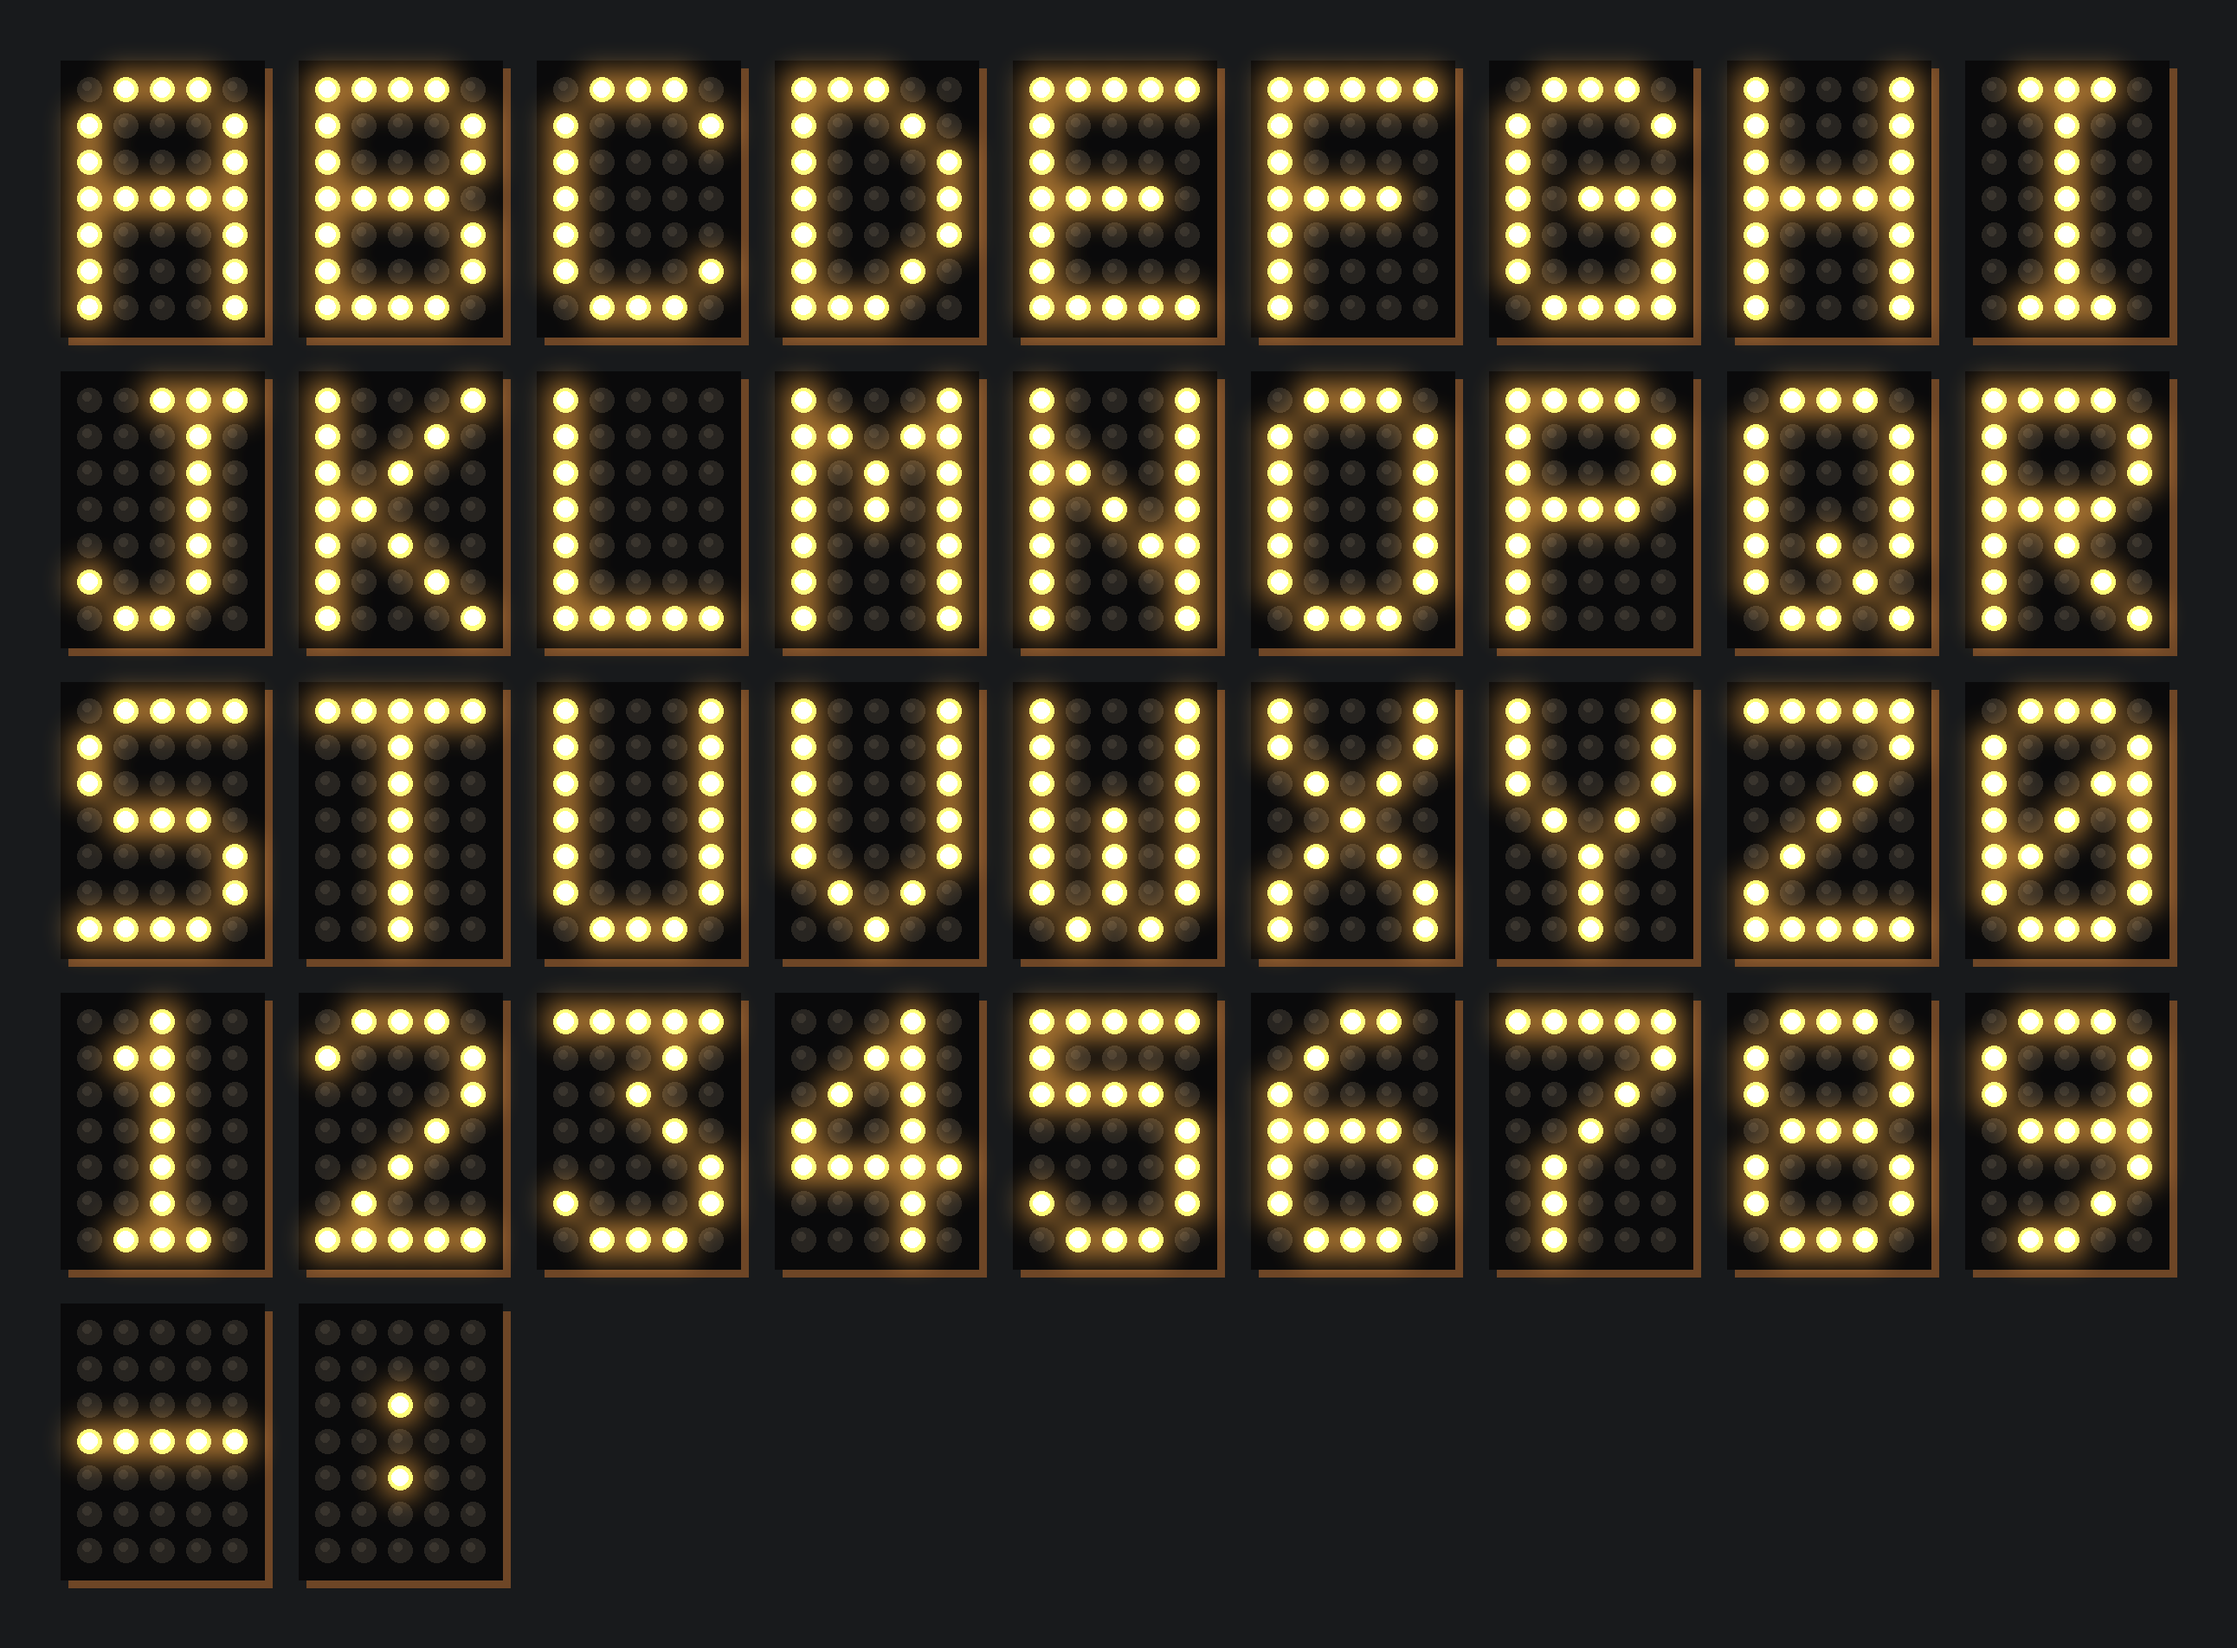
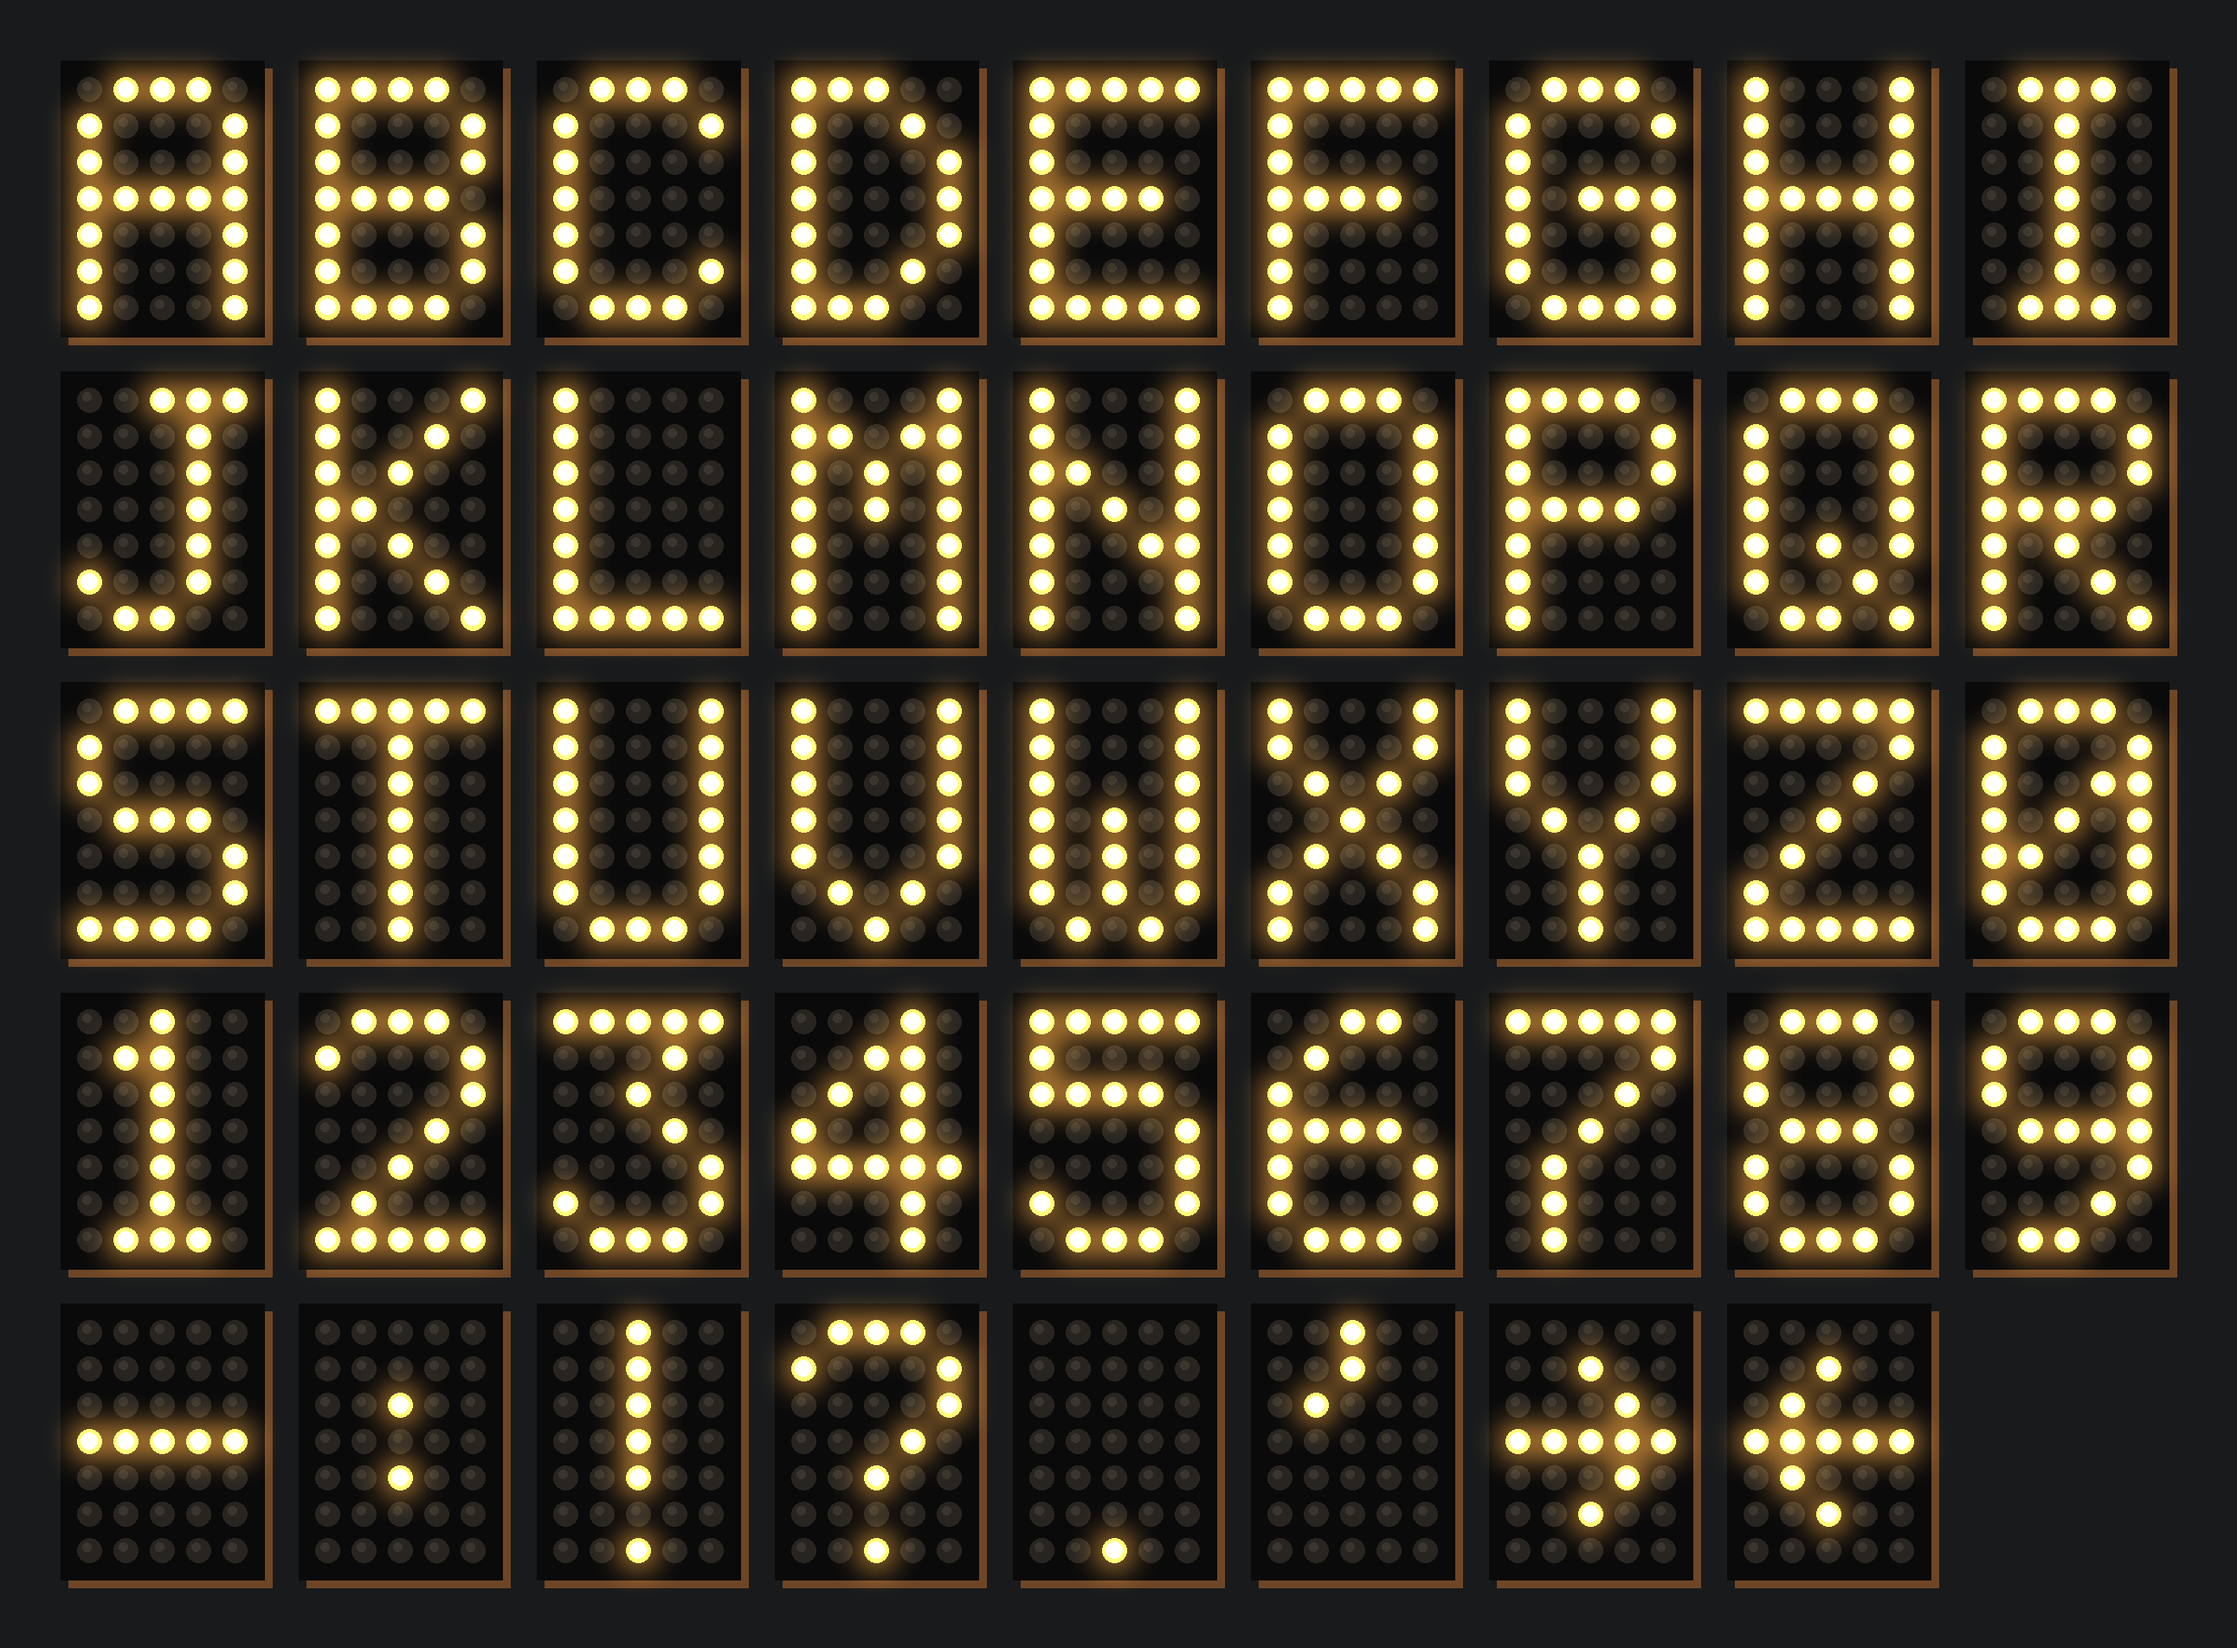
Add ! ? . ' and left/right arrows to the font
- font5x7.py: six new glyphs, plus glyphs() which turns -> and <- into
  arrows and drops characters the font lacks
- docs/font.png: regenerated with all 44 characters
- README and web/marquee_matrix.html: Spell accepts the new characters

Changed region(s): [[0.2477, 0.7747, 0.6192, 0.9916], [0.6502, 0.8057, 0.8669, 0.9916], [0.5882, 0.9606, 0.6502, 0.9916]]

diff --git a/web/marquee_matrix.html b/web/marquee_matrix.html
@@ -211,14 +211,14 @@ code { font-family: var(--font-mono); font-size: 0.9em; overflow-wrap: anywhere;
         <div class="stat"><span class="v" id="s-lit">18</span><span class="k">bulbs lit</span></div>
         <div class="stat"><span class="v" id="s-load">18 W</span><span class="k">at 1 W per bulb</span></div>
       </div>
-      <p class="muted" style="font-size:15px">On/off only. Each bulb has its own solid-state relay channel, so any pattern is possible. Spell takes letters, digits, dash and colon; Count runs 9 down to 0. Click a bulb to toggle it by hand.</p>
+      <p class="muted" style="font-size:15px">On/off only. Each bulb has its own solid-state relay channel, so any pattern is possible. Spell takes letters, digits and - : ! ? . ' (type -> or &lt;- for an arrow); Count runs 9 down to 0. Click a bulb to toggle it by hand.</p>
     </div>
   </div>
 
   <section>
     <div class="head">
       <h2>The font</h2>
-      <p class="muted">The classic 5 × 7 dot-matrix letters and digits, plus a dash and a colon for times and scores like 12:30 or 3-1. Zero has a slash so it reads differently from O. Bulb number = row × 5 + column, counting from 0 at the top left. Letters and digits light between 10 bulbs (1) and 20 (B). Click one to hold it on the sign.</p>
+      <p class="muted">The classic 5 × 7 dot-matrix letters and digits, plus a dash and colon for times and scores like 12:30 or 3-1, punctuation (! ? . ') and two arrows. Zero has a slash so it reads differently from O. Bulb number = row × 5 + column, counting from 0 at the top left. Letters and digits light between 10 bulbs (1) and 20 (B). Click one to hold it on the sign.</p>
     </div>
     <h3>Letters</h3>
     <div class="font-grid" id="font-letters"></div>
@@ -313,7 +313,7 @@ code { font-family: var(--font-mono); font-size: 0.9em; overflow-wrap: anywhere;
   <section>
     <div class="head"><h2>Files</h2><p class="muted">In the MarqueeMatrix project folder.</p></div>
     <div class="files">
-      <div><code>font5x7.py</code><span class="muted">The glyphs used on this page: A–Z, 0–9, dash and colon</span></div>
+      <div><code>font5x7.py</code><span class="muted">The glyphs used on this page: A–Z, 0–9, symbols and arrows</span></div>
       <div><code>cad/marquee_matrix.py</code><span class="muted">Parametric build123d model; all dimensions at the top</span></div>
       <div><code>cad/export.py</code><span class="muted">Writes the STEP file and laser cut files</span></div>
       <div><code>out/marquee_matrix.step</code><span class="muted">Full assembly</span></div>
@@ -323,7 +323,7 @@ code { font-family: var(--font-mono); font-size: 0.9em; overflow-wrap: anywhere;
 </div>
 
 <script>
-const FONT = {"A":[".###.","#...#","#...#","#####","#...#","#...#","#...#"],"B":["####.","#...#","#...#","####.","#...#","#...#","####."],"C":[".###.","#...#","#....","#....","#....","#...#",".###."],"D":["###..","#..#.","#...#","#...#","#...#","#..#.","###.."],"E":["#####","#....","#....","####.","#....","#....","#####"],"F":["#####","#....","#....","####.","#....","#....","#...."],"G":[".###.","#...#","#....","#.###","#...#","#...#",".####"],"H":["#...#","#...#","#...#","#####","#...#","#...#","#...#"],"I":[".###.","..#..","..#..","..#..","..#..","..#..",".###."],"J":["..###","...#.","...#.","...#.","...#.","#..#.",".##.."],"K":["#...#","#..#.","#.#..","##...","#.#..","#..#.","#...#"],"L":["#....","#....","#....","#....","#....","#....","#####"],"M":["#...#","##.##","#.#.#","#.#.#","#...#","#...#","#...#"],"N":["#...#","#...#","##..#","#.#.#","#..##","#...#","#...#"],"O":[".###.","#...#","#...#","#...#","#...#","#...#",".###."],"P":["####.","#...#","#...#","####.","#....","#....","#...."],"Q":[".###.","#...#","#...#","#...#","#.#.#","#..#.",".##.#"],"R":["####.","#...#","#...#","####.","#.#..","#..#.","#...#"],"S":[".####","#....","#....",".###.","....#","....#","####."],"T":["#####","..#..","..#..","..#..","..#..","..#..","..#.."],"U":["#...#","#...#","#...#","#...#","#...#","#...#",".###."],"V":["#...#","#...#","#...#","#...#","#...#",".#.#.","..#.."],"W":["#...#","#...#","#...#","#.#.#","#.#.#","#.#.#",".#.#."],"X":["#...#","#...#",".#.#.","..#..",".#.#.","#...#","#...#"],"Y":["#...#","#...#","#...#",".#.#.","..#..","..#..","..#.."],"Z":["#####","....#","...#.","..#..",".#...","#....","#####"],"0":[".###.","#...#","#..##","#.#.#","##..#","#...#",".###."],"1":["..#..",".##..","..#..","..#..","..#..","..#..",".###."],"2":[".###.","#...#","....#","...#.","..#..",".#...","#####"],"3":["#####","...#.","..#..","...#.","....#","#...#",".###."],"4":["...#.","..##.",".#.#.","#..#.","#####","...#.","...#."],"5":["#####","#....","####.","....#","....#","#...#",".###."],"6":["..##.",".#...","#....","####.","#...#","#...#",".###."],"7":["#####","....#","...#.","..#..",".#...",".#...",".#..."],"8":[".###.","#...#","#...#",".###.","#...#","#...#",".###."],"9":[".###.","#...#","#...#",".####","....#","...#.",".##.."],"-":[".....",".....",".....","#####",".....",".....","....."],":":[".....",".....","..#..",".....","..#..",".....","....."]};
+const FONT = {"A":[".###.","#...#","#...#","#####","#...#","#...#","#...#"],"B":["####.","#...#","#...#","####.","#...#","#...#","####."],"C":[".###.","#...#","#....","#....","#....","#...#",".###."],"D":["###..","#..#.","#...#","#...#","#...#","#..#.","###.."],"E":["#####","#....","#....","####.","#....","#....","#####"],"F":["#####","#....","#....","####.","#....","#....","#...."],"G":[".###.","#...#","#....","#.###","#...#","#...#",".####"],"H":["#...#","#...#","#...#","#####","#...#","#...#","#...#"],"I":[".###.","..#..","..#..","..#..","..#..","..#..",".###."],"J":["..###","...#.","...#.","...#.","...#.","#..#.",".##.."],"K":["#...#","#..#.","#.#..","##...","#.#..","#..#.","#...#"],"L":["#....","#....","#....","#....","#....","#....","#####"],"M":["#...#","##.##","#.#.#","#.#.#","#...#","#...#","#...#"],"N":["#...#","#...#","##..#","#.#.#","#..##","#...#","#...#"],"O":[".###.","#...#","#...#","#...#","#...#","#...#",".###."],"P":["####.","#...#","#...#","####.","#....","#....","#...."],"Q":[".###.","#...#","#...#","#...#","#.#.#","#..#.",".##.#"],"R":["####.","#...#","#...#","####.","#.#..","#..#.","#...#"],"S":[".####","#....","#....",".###.","....#","....#","####."],"T":["#####","..#..","..#..","..#..","..#..","..#..","..#.."],"U":["#...#","#...#","#...#","#...#","#...#","#...#",".###."],"V":["#...#","#...#","#...#","#...#","#...#",".#.#.","..#.."],"W":["#...#","#...#","#...#","#.#.#","#.#.#","#.#.#",".#.#."],"X":["#...#","#...#",".#.#.","..#..",".#.#.","#...#","#...#"],"Y":["#...#","#...#","#...#",".#.#.","..#..","..#..","..#.."],"Z":["#####","....#","...#.","..#..",".#...","#....","#####"],"0":[".###.","#...#","#..##","#.#.#","##..#","#...#",".###."],"1":["..#..",".##..","..#..","..#..","..#..","..#..",".###."],"2":[".###.","#...#","....#","...#.","..#..",".#...","#####"],"3":["#####","...#.","..#..","...#.","....#","#...#",".###."],"4":["...#.","..##.",".#.#.","#..#.","#####","...#.","...#."],"5":["#####","#....","####.","....#","....#","#...#",".###."],"6":["..##.",".#...","#....","####.","#...#","#...#",".###."],"7":["#####","....#","...#.","..#..",".#...",".#...",".#..."],"8":[".###.","#...#","#...#",".###.","#...#","#...#",".###."],"9":[".###.","#...#","#...#",".####","....#","...#.",".##.."],"-":[".....",".....",".....","#####",".....",".....","....."],":":[".....",".....","..#..",".....","..#..",".....","....."],"!":["..#..","..#..","..#..","..#..","..#..",".....","..#.."],"?":[".###.","#...#","....#","...#.","..#..",".....","..#.."],".":[".....",".....",".....",".....",".....",".....","..#.."],"'":["..#..","..#..",".#...",".....",".....",".....","....."],"→":[".....","..#..","...#.","#####","...#.","..#..","....."],"←":[".....","..#..",".#...","#####",".#...","..#..","....."]};
 const COLS = 5, ROWS = 7, PITCH = 60, EDGE = 48, W = 336, H = 456;
 const N = COLS * ROWS;
 
@@ -383,7 +383,7 @@ const perimeter = (() => {
 })();
 
 function letters() {
-  const w = wordInput.value.toUpperCase().replace(/[^A-Z0-9:\- ]/g, "");
+  const w = wordInput.value.toUpperCase().replace(/->/g, "→").replace(/<-/g, "←").replace(/[^A-Z0-9:\-!?.'→← ]/g, "");
   return w.length ? [...w] : ["A"];
 }
 function tick() {

diff --git a/font5x7.py b/font5x7.py
@@ -1,6 +1,7 @@
-"""5x7 marquee font: A-Z, 0-9, dash and colon for a 5-wide x 7-tall grid of bulbs.
+"""5x7 marquee font: A-Z, 0-9, - : ! ? . ' and two arrows for a 5-wide x 7-tall grid of bulbs.
 
-Zero has a slash so it reads differently from O.
+Zero has a slash so it reads differently from O. In text, type -> and <- for the arrows
+(see glyphs()).
 
 Each glyph is 7 rows of 5 characters, top row first; '#' = bulb on.
 Bulb index = row * 5 + col (0 = top-left, 34 = bottom-right).
@@ -49,8 +50,26 @@ GLYPHS = {
     "9": [".###.", "#...#", "#...#", ".####", "....#", "...#.", ".##.."],
     "-": [".....", ".....", ".....", "#####", ".....", ".....", "....."],
     ":": [".....", ".....", "..#..", ".....", "..#..", ".....", "....."],
+    "!": ["..#..", "..#..", "..#..", "..#..", "..#..", ".....", "..#.."],
+    "?": [".###.", "#...#", "....#", "...#.", "..#..", ".....", "..#.."],
+    ".": [".....", ".....", ".....", ".....", ".....", ".....", "..#.."],
+    "'": ["..#..", "..#..", ".#...", ".....", ".....", ".....", "....."],
+    "→": [".....", "..#..", "...#.", "#####", "...#.", "..#..", "....."],
+    "←": [".....", "..#..", ".#...", "#####", ".#...", "..#..", "....."],
     " ": ["....."] * 7,
 }
+
+
+ARROWS = {"->": "→", "<-": "←"}
+
+
+def glyphs(text: str) -> list[str]:
+    """Split text into displayable glyphs: upper-cases it, turns -> and <- into arrows,
+    and drops anything the font doesn't have."""
+    t = text.upper()
+    for k, v in ARROWS.items():
+        t = t.replace(k, v)
+    return [c for c in t if c in GLYPHS]
 
 
 def bulbs_on(ch: str) -> list[int]:

diff --git a/cad/render_banner.py b/cad/render_banner.py
@@ -1,7 +1,7 @@
 """Render the README images, drawn to scale from font5x7.py and the box dimensions.
 
   docs/marquee.png  one row of signs spelling WORD (default MARQUEE)
-  docs/font.png     every glyph (A-Z, 0-9, dash, colon), nine signs per row
+  docs/font.png     every glyph (A-Z, 0-9, symbols, arrows), nine signs per row
 
 uv run --python 3.12 --with pillow cad/render_banner.py [WORD]
 """
